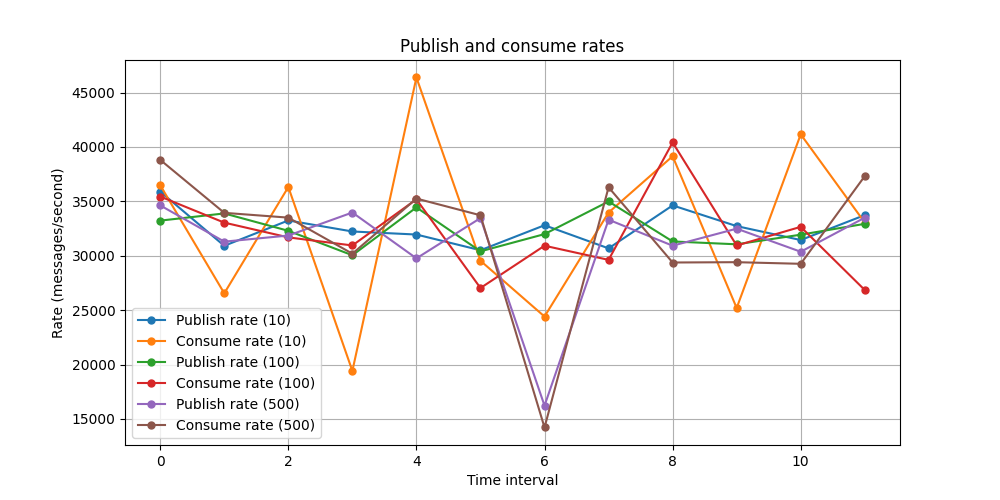
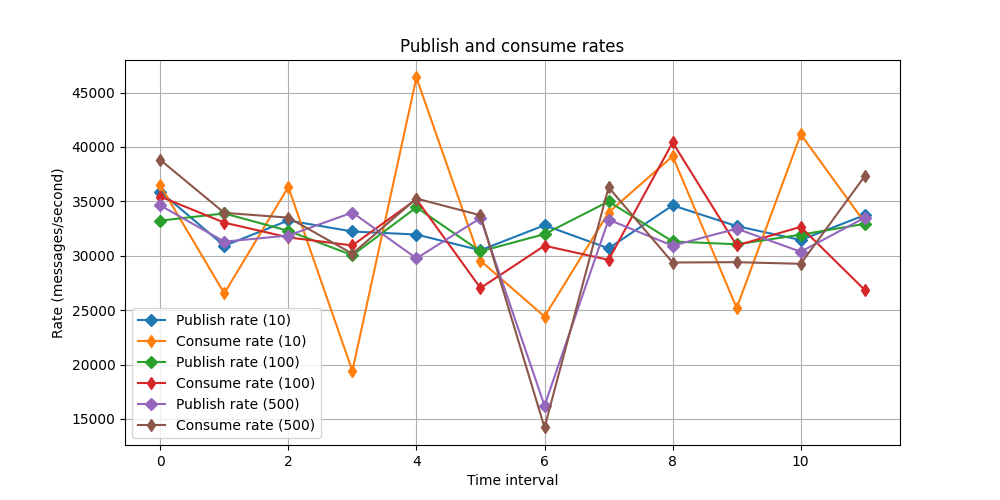
Change marker.

diff --git a/visualization/latency_and_throughput_rates.py b/visualization/latency_and_throughput_rates.py
@@ -31,8 +31,8 @@ def plot_publish_consume_rates(json_data, label, technology, size, plot):
 
     x = np.arange(len(publish_rates))
 
-    plt.plot(x, publish_rates, label=f'Publish rate ({label})', marker='o', markersize=5)
-    plt.plot(x, consume_rates, label=f'Consume rate ({label})', marker='o', markersize=5)
+    plt.plot(x, publish_rates, label=f'Publish rate ({label})', marker='D', markersize=6)
+    plt.plot(x, consume_rates, label=f'Consume rate ({label})', marker='d', markersize=6)
     plt.xlabel('Time interval')
     plt.ylabel('Rate (messages/second)')
     plt.title('Publish and consume rates')
